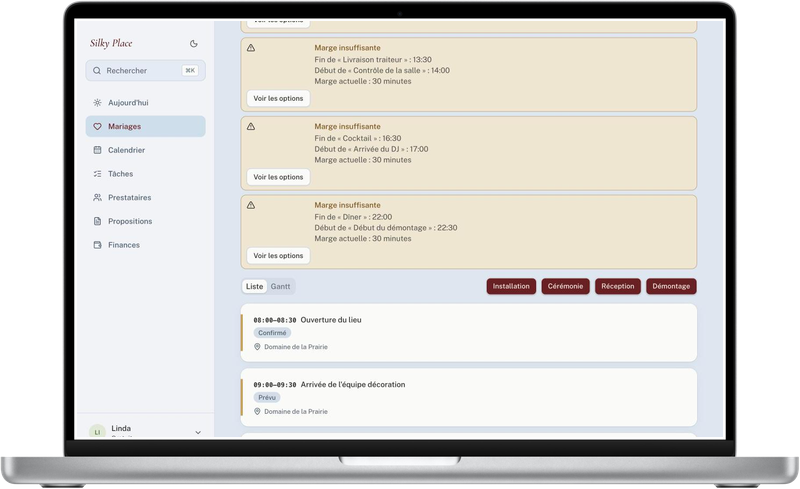
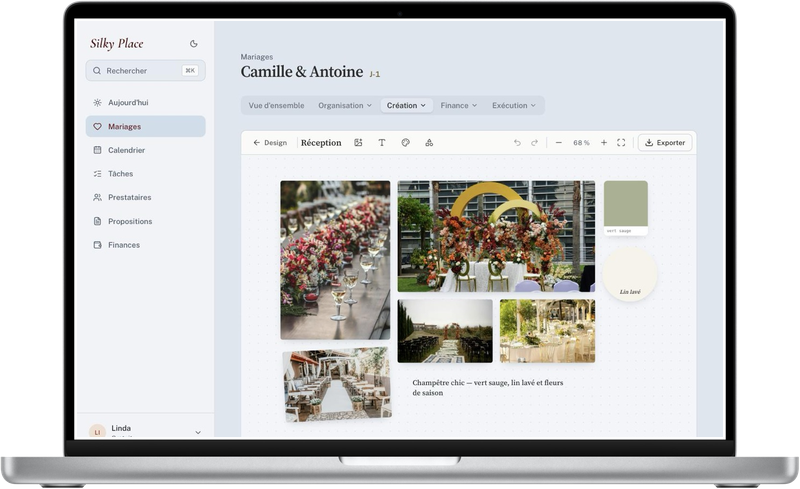
Hero : le moodboard dans le MacBook à la place des alertes du Jour J

diff --git a/src/features/landing/components/HeroShowcase.tsx b/src/features/landing/components/HeroShowcase.tsx
@@ -29,7 +29,7 @@ export function HeroShowcase() {
 
       <img
         src="/mockups/hero-macbook.png"
-        alt="Déroulé du Jour J dans l'application SilkyPlace, sur MacBook"
+        alt="Moodboard d'un mariage dans l'application SilkyPlace, sur MacBook"
         width={800}
         height={489}
         className="animate-notice-in hero-float block w-full drop-shadow-[0_18px_32px_rgba(31,45,61,0.25)]"

diff --git a/scripts/compose-hero-macbook.py b/scripts/compose-hero-macbook.py
@@ -1,0 +1,41 @@
+"""
+Compose public/mockups/hero-macbook.png : une VRAIE capture de SilkyPlace dans le cadre MacBook.
+Usage : python3 scripts/compose-hero-macbook.py [capture.jpg]   (par défaut public/landing/moodboard.jpg)
+L'écran est repéré automatiquement : c'est la zone transparente (alpha = 0) au centre du cadre macbook-pro-16.png.
+"""
+import sys
+from collections import deque
+import numpy as np
+from PIL import Image
+
+shot_path = sys.argv[1] if len(sys.argv) > 1 else 'public/landing/moodboard.jpg'
+frame = Image.open('public/mockups/macbook-pro-16.png').convert('RGBA')
+a = np.array(frame)
+h, w = a.shape[:2]
+hole = a[..., 3] == 0
+seen = np.zeros_like(hole)
+start = (w // 2, h // 2 - 40)
+q = deque([start])
+seen[start[1], start[0]] = True
+while q:
+    x, y = q.popleft()
+    for dx, dy in ((1, 0), (-1, 0), (0, 1), (0, -1)):
+        nx, ny = x + dx, y + dy
+        if 0 <= nx < w and 0 <= ny < h and hole[ny, nx] and not seen[ny, nx]:
+            seen[ny, nx] = True
+            q.append((nx, ny))
+ys, xs = np.where(seen)
+x0, x1, y0, y1 = xs.min(), xs.max(), ys.min(), ys.max()
+sw, sh = x1 - x0 + 1, y1 - y0 + 1
+
+shot = Image.open(shot_path).convert('RGBA')
+scale = sw / shot.width
+shot = shot.resize((sw, round(shot.height * scale)), Image.LANCZOS).crop((0, 0, sw, sh))
+
+screen = Image.new('RGBA', frame.size, (0, 0, 0, 0))
+screen.paste(shot, (x0, y0))
+sa = np.array(screen)
+sa[..., 3] = np.where(seen, sa[..., 3], 0)  # on respecte les coins arrondis de l'écran
+out = Image.alpha_composite(Image.fromarray(sa), frame)
+out.save('public/mockups/hero-macbook.png', optimize=True)
+print('écran', sw, 'x', sh, 'à', (x0, y0), '->', 'public/mockups/hero-macbook.png')
